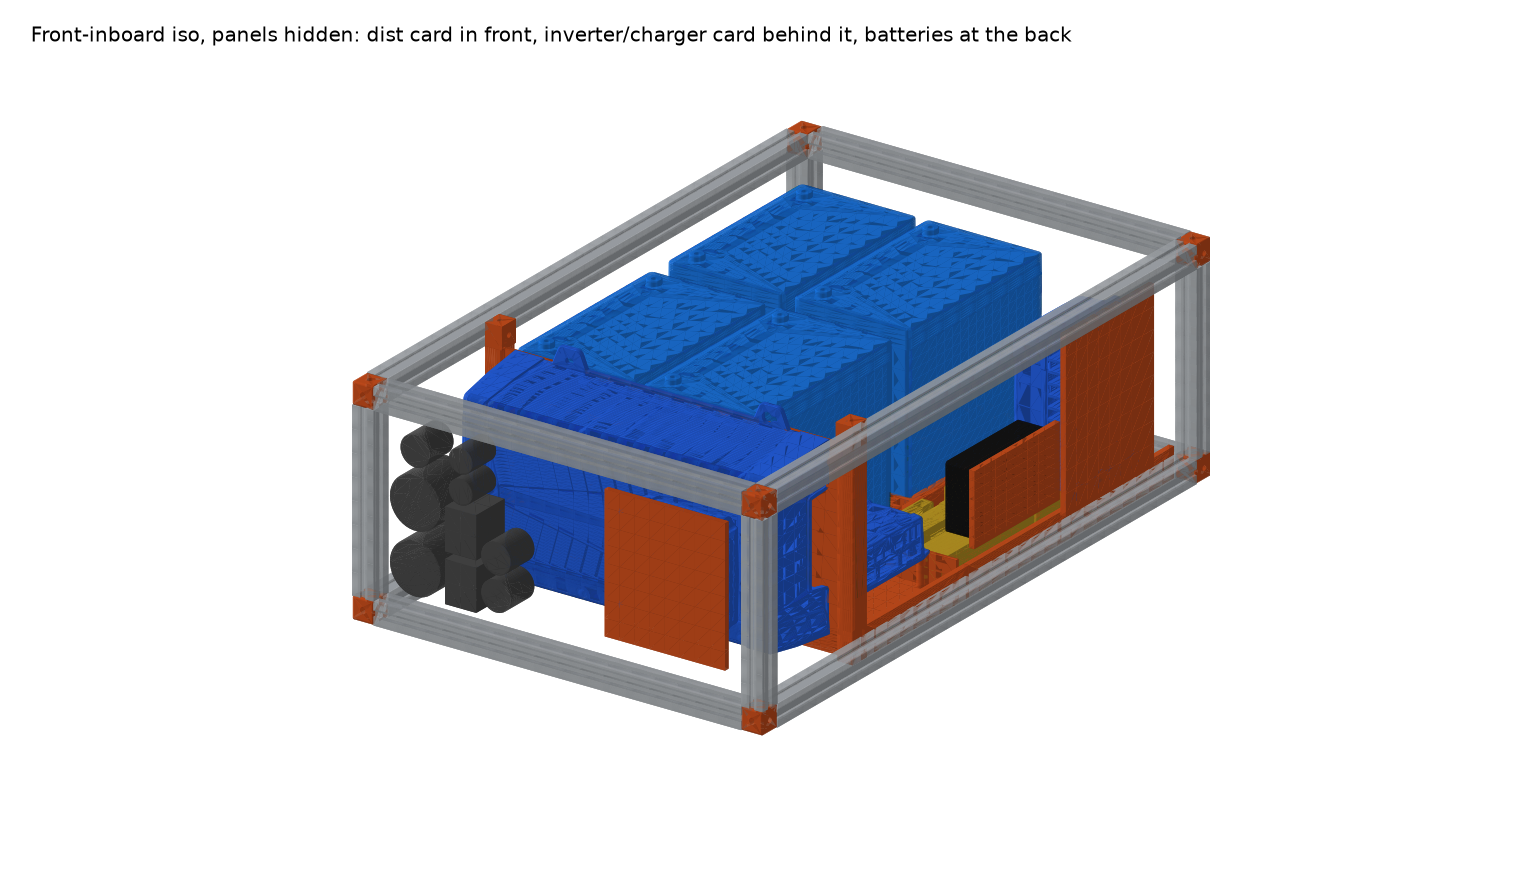
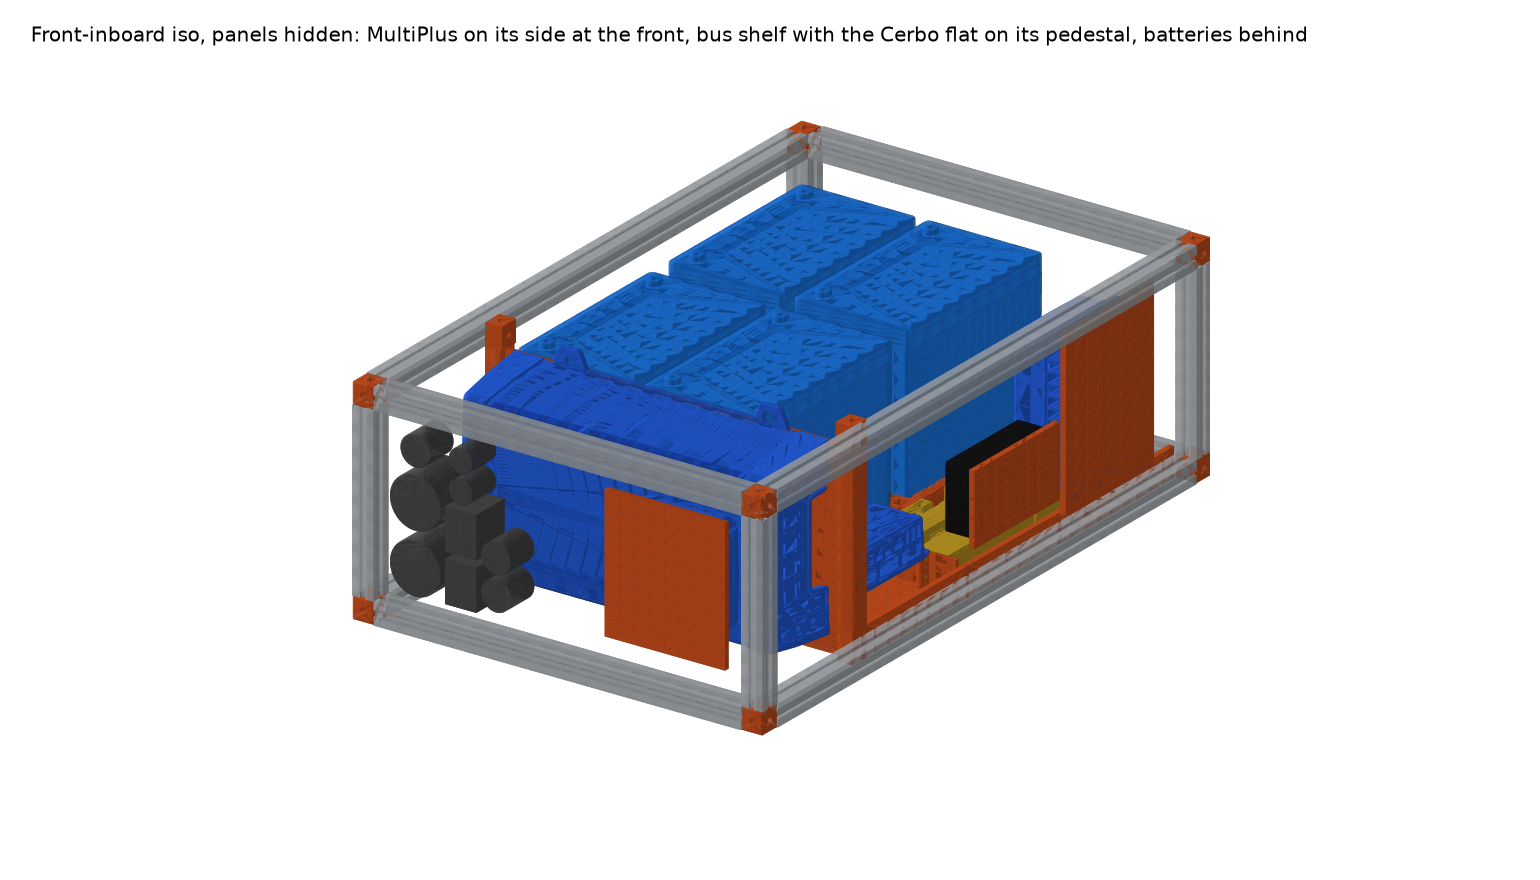
v12 renders: captions for the non-card layout, drop the cards-lifted view

Changed region(s): [[0.2182, 0.0307, 0.8416, 0.0614]]

diff --git a/battery-box/cad/render.py b/battery-box/cad/render.py
@@ -93,6 +93,7 @@ if __name__ == "__main__":
     d = cage.RENDERS; os.makedirs(d, exist_ok=True)
     render(asm, os.path.join(d, "with-icebox.png"), 22, 35, hide=("lid",),
            title=("487 mm cube from 12 uncut kit bars" if cage.P["frame_source"] == "kit"
+                  else "v12: IceBox footprint, 10 in tall, not card based: 2 x 2 batteries, bus shelf, MultiPlus on its side, 762 x 487 x 254" if cage.P["card_plane"] == "v12"
                   else "v9: bus deck on the battery rack, two unpluggable cards, 539 x 345 x 559" if cage.P["card_plane"] == "v9"
                   else "v8: four SuperPack 60Ah in two touching stacks, three cards across, 598 x 345 x 559" if cage.P["card_plane"] == "v8"
                   else "v7: four SuperPack 60Ah in two touching stacks, lengthwise cards in front, 345 mm wide" if cage.P["card_plane"] == "v7"
@@ -100,18 +101,21 @@ if __name__ == "__main__":
                   else "A second IceBox 1.3 frame as the cage")
                  + ", standing against the IceBox 1.3 slotted back panel")
     render(asm, os.path.join(d, "iso-front.png"), 24, 35, hide=("lid", "panel", "icebox"),
-           title=("Front-inboard iso, panels hidden: two cards (inverter, charge) and the bus deck on the battery rack" if cage.P["card_plane"] == "v9"
+           title=("Front-inboard iso, panels hidden: MultiPlus on its side at the front, bus shelf with the Cerbo flat on its pedestal, batteries behind" if cage.P["card_plane"] == "v12"
+                  else "Front-inboard iso, panels hidden: two cards (inverter, charge) and the bus deck on the battery rack" if cage.P["card_plane"] == "v9"
                   else "Front-inboard iso, panels hidden: three cards across (inverter, charge, distribution), battery stacks behind" if cage.P["card_plane"] == "v8"
                   else "Front-inboard iso, panels hidden: lengthwise cards in front, two touching battery stacks behind the cross-bar" if cage.P["card_plane"] == "v7"
                   else "Front-inboard iso, panels hidden: inverter card along the inboard wall, dist card beside it, batteries outboard" if cage.P["card_plane"] == "xz"
                   else "Front-inboard iso, panels hidden: dist card in front, inverter/charger card behind it, batteries at the back"))
     render(asm, os.path.join(d, "iso-back.png"), 24, 215, hide=("lid", "panel", "icebox"),
            title="Back-outboard iso, panels hidden: " + ("three batteries upright, fourth on its long side on the shelf" if cage.P["batt_layout"] == "row3_top1"
+                  else "2 x 2 batteries in one layer, bus shelf beside them, MultiPlus plate in front" if cage.P["card_plane"] == "v12"
                   else "battery rack with the bus deck on top, two cards in front" if cage.P["card_plane"] == "v9"
                   else "two touching stacks of SuperPack 60Ah at the IceBox end, three cards across in front" if cage.P["card_plane"] == "v8"
                   else "two touching stacks of SuperPack 60Ah at the IceBox end, cross-bar, cards in front" if cage.P["card_plane"] == "v7"
                   else ("four Lithium Smart 200Ah in a 2 x 2 printed rack, cards along the inboard wall" if cage.BS["arrange"] == "2x2" else "two Lithium Smart 200Ah end to end in the outboard column, cards along the inboard wall") if cage.P["card_plane"] == "xz" else "two upright stacks of two batteries"))
-    render(asm, os.path.join(d, "cards-lifted.png"), 24, 35, hide=("lid", "panel", "icebox"), lift=cage.in_H * 0.8, title="All three cards lifted out the top")
+    if cage.P["card_plane"] != "v12":   # nothing lifts out of v12
+        render(asm, os.path.join(d, "cards-lifted.png"), 24, 35, hide=("lid", "panel", "icebox"), lift=cage.in_H * 0.8, title="All three cards lifted out the top")
     render(asm, os.path.join(d, "front.png"), 0, 0, hide=("lid", "panel", "icebox"), title="Front elevation, panels hidden")
-    render(asm, os.path.join(d, "top.png"), 90, -90, hide=("lid", "icebox"), title="Top-down, lid off: rear layer (left) and cards (right)")
+    render(asm, os.path.join(d, "top.png"), 90, -90, hide=("lid", "icebox"), title="Top-down, lid off: batteries and bus shelf (left), MultiPlus and front panel (right)" if cage.P["card_plane"] == "v12" else "Top-down, lid off: rear layer (left) and cards (right)")
     render(asm, os.path.join(d, "with-icebox-top.png"), 90, -90, hide=("lid",), title="Top-down with the IceBox")
